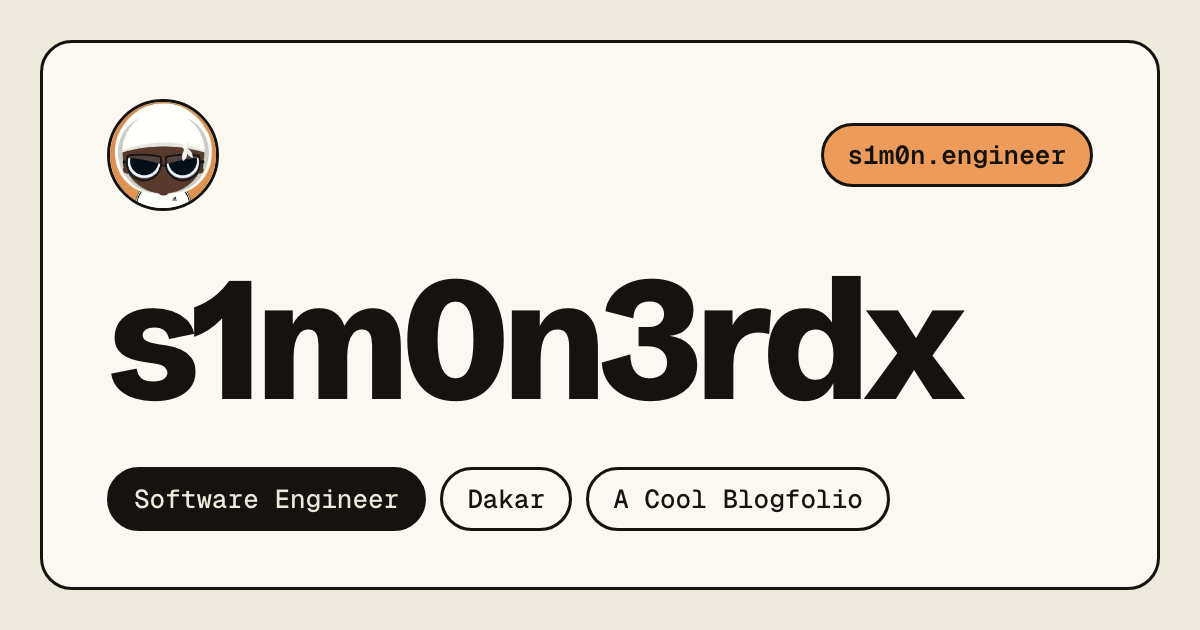
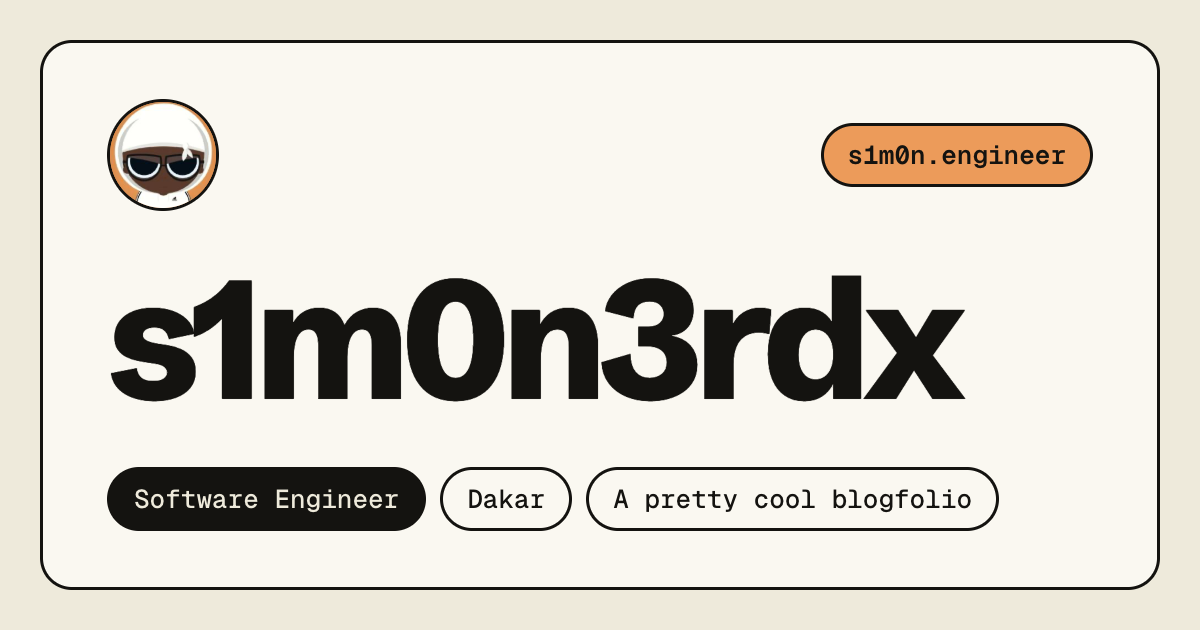
chore: update og image tagline

diff --git a/docs/og-image/template.html b/docs/og-image/template.html
@@ -64,7 +64,7 @@
       <div class="bottom">
         <span class="pill dark">Software Engineer</span>
         <span class="pill">Dakar</span>
-        <span class="pill">A Cool Blogfolio</span>
+        <span class="pill">A pretty cool blogfolio</span>
       </div>
     </div>
   </body>
